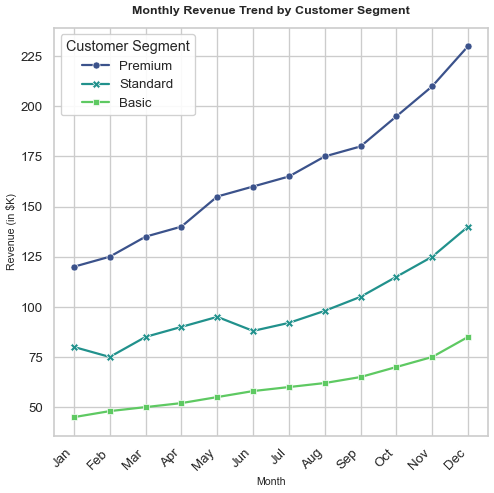
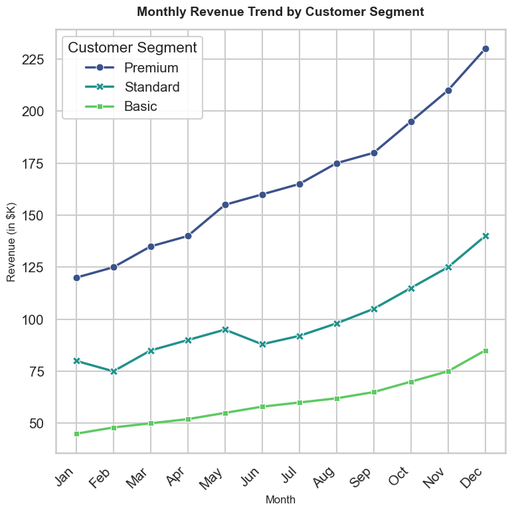
feat: Generate monthly revenue trend chart by customer segment and save as 512x512 image.

diff --git a/q5/chart.py b/q5/chart.py
@@ -66,9 +66,19 @@ plt.legend(title='Customer Segment', loc='upper left', framealpha=0.9)
 # Adjust layout
 plt.tight_layout()
 
-# Save chart with exact 512x512 dimensions
-plt.savefig('chart.png', dpi=64, bbox_inches='tight', facecolor='white', edgecolor='none')
+# Save chart at higher resolution first
+plt.savefig('chart_temp.png', dpi=100, bbox_inches='tight', facecolor='white', edgecolor='none')
 plt.close()
+
+# Resize to exactly 512x512 pixels using PIL
+from PIL import Image
+img = Image.open('chart_temp.png')
+img_resized = img.resize((512, 512), Image.Resampling.LANCZOS)
+img_resized.save('chart.png')
+
+# Clean up temp file
+import os
+os.remove('chart_temp.png')
 
 print("Chart saved as chart.png (512x512 pixels)")
 print("Author: 22f2000116@ds.study.iitm.ac.in")
